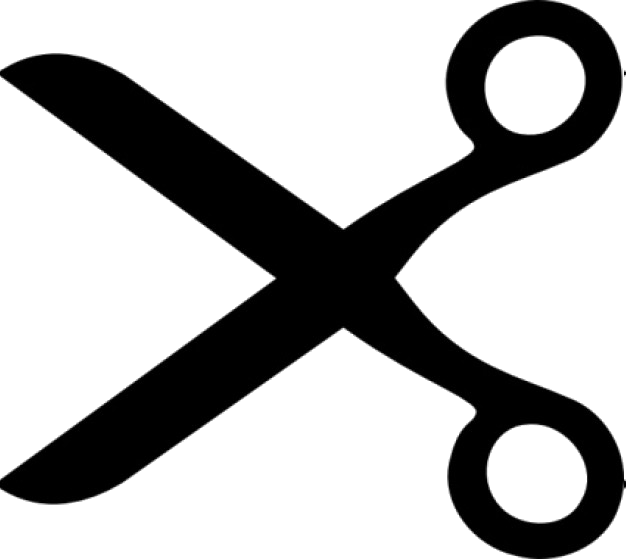
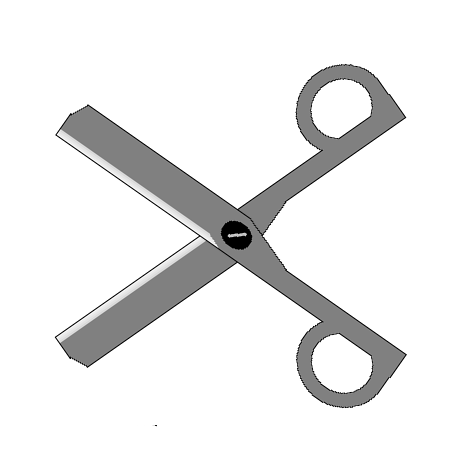
Q linda tijera

diff --git a/modelo/src/objeto/Yunque.cpp b/modelo/src/objeto/Yunque.cpp
@@ -16,7 +16,7 @@ Yunque::Yunque() : Objeto() {
 Yunque::Yunque(float x, float y, float w, float h) : Objeto(x,y){
 	this->ancho = w;
 	this->alto = h;
-	this->enganches.push_back(new Enganche(this,0,this->alto / 2));
+	this->enganches.push_back(new Enganche(this,0,this->alto * 0.45));
 }
 
 Yunque::~Yunque() {
@@ -26,7 +26,7 @@ Yunque::~Yunque() {
 Yunque::Yunque(const Yunque& figura):Objeto(figura) {
 	this->x = figura.getX();
 	this->y = figura.getY();
-	this->enganches.push_back(new Enganche(this,0,this->alto / 2));
+	this->enganches.push_back(new Enganche(this,0,this->alto * 0.45));
 //	alto = figura.alto;
 
 	this->ancho = (figura.getAncho());
@@ -49,7 +49,7 @@ void Yunque::crearFisica() {
 		b2BodyDef bodyDef;
 		bodyDef.type = b2_dynamicBody;
 		bodyDef.position.Set(centro.x, centro.y);
-		bodyDef.angle = this->getRotacion() * -3.14 / 180.0;
+		bodyDef.angle = this->getRotacion() * -b2_pi / 180.0;
 		b2Body* body = myWorld->CreateBody(&bodyDef);
 		b2FixtureDef bodyPelota;
 		bodyPelota.filter.categoryBits = CATEGORIA_FIGURAS;

diff --git a/vista/src/ConstantesVista.h b/vista/src/ConstantesVista.h
@@ -54,8 +54,8 @@ namespace CLIENTE {
 #define PATH_VISTA_POLEA "resource/polea.png"
 #define PATH_VISTA_CONTROL "resource/control.jpg"
 #define PATH_VISTA_BOMBA "resource/bomba2.png"
-#define PATH_VISTA_TIJERA1 "resource/tijera.png"
-#define PATH_VISTA_TIJERA2 "resource/tijera2.png"
+#define PATH_VISTA_TIJERA1 "resource/tijeraN2.png"
+#define PATH_VISTA_TIJERA2 "resource/tijeraN.png"
 #define PATH_VISTA_RUEDAS "resource/ruedaAuto.png"
 #define PATH_EDICION_UNION "resource/seleccionUnion.png"
 #define PATH_AGRANDAR_IMG "resource/agrandar.png"
@@ -119,7 +119,7 @@ namespace CLIENTE {
 #define ANCHO_BALANCIN 15.0
 #define ALTO_BALANCIN 1.6
 #define ANCHO_TIJERA 15.0
-#define ALTO_TIJERA 2.0
+#define ALTO_TIJERA 8.0
 
 
 #define ANCHO_CLAVO 5

diff --git a/modelo/src/objeto/Bomba.cpp b/modelo/src/objeto/Bomba.cpp
@@ -86,6 +86,8 @@ void Bomba::accionar() {
 	notify(DESACTIVADO);
 	myWorld->DestroyBody(this->getBody());
 	myWorld->DestroyBody(this->radioAccion);
+	radioAccion = NULL;
+	body =NULL;
 	viva = false;
 }
 
@@ -110,10 +112,10 @@ void Bomba::crearFisicaRadio(b2Vec2 centro) {
 	radioAccion->SetUserData(this);
 
 	//joint radio de accion con la tierra;
-	b2RevoluteJointDef rjd2;
-	rjd2.Initialize(this->body, radioAccion, centro);
-	rjd2.collideConnected = false;
-	myWorld->CreateJoint(&rjd2);
+//	b2RevoluteJointDef rjd2;
+//	rjd2.Initialize(this->body, radioAccion, centro);
+//	rjd2.collideConnected = false;
+//	myWorld->CreateJoint(&rjd2);
 }
 
 bool Bomba::validarContactoBomba(b2Body* verf, b2Body* b) {

diff --git a/modelo/src/objeto/Aspa.h b/modelo/src/objeto/Aspa.h
@@ -21,6 +21,7 @@ private:
 	b2Body * switchContacto;
 	void crearShapes();
 	void crearSwitch();
+	typedef Objeto super;
 public:
 	Aspa();
 	Aspa(float,float,float,float,double,int,Tijera*);
@@ -34,6 +35,7 @@ public:
 	void acept(VisitorFigura*);
 	void trabar();
 	b2RevoluteJoint* getJoint();
+	void limpiarReferenciasB2D();
 	void removerFisica();
 };
 #endif /* ASPA_H_ */

diff --git a/vista/src/vista/objeto/TijeraView.cpp b/vista/src/vista/objeto/TijeraView.cpp
@@ -19,8 +19,8 @@ void TijeraView::dibujarse(SDL_Renderer* r) {
 	dest.w = this->wp;
 	dest.x = this->xp;
 	dest.y = this->yp;
-	SDL_RenderCopyEx(r,this->getTexture(), NULL, &dest,angulo2,NULL,SDL_FLIP_NONE);
 	SDL_RenderCopyEx(r,this->t2, NULL, &dest,angulo1,NULL,SDL_FLIP_NONE);
+	SDL_RenderCopyEx(r,this->getTexture(), NULL, &dest,angulo2,NULL,SDL_FLIP_NONE);
 
 }
 

diff --git a/modelo/src/objeto/Tijera.cpp b/modelo/src/objeto/Tijera.cpp
@@ -229,3 +229,9 @@ float Tijera::getRotacionAspa1() {
 float Tijera::getRotacionAspa2() {
 	return aspa2->getRotacion();
 }
+
+void Tijera::limpiarReferenciasB2D() {
+	super::limpiarReferenciasB2D();
+	aspa1->limpiarReferenciasB2D();
+	aspa2->limpiarReferenciasB2D();
+}

diff --git a/modelo/src/objeto/Carrito.cpp b/modelo/src/objeto/Carrito.cpp
@@ -264,3 +264,8 @@ void Carrito::restoreBackUp() {
 void Carrito::recibirImpacto(b2Vec2 direccion) {
 	this->realizarImpacto(direccion);
 }
+
+void Carrito::limpiarReferenciasB2D() {
+	ruedaIzquierda= NULL;
+	ruedaDerecha = NULL;
+}

diff --git a/modelo/src/objeto/Polea.cpp b/modelo/src/objeto/Polea.cpp
@@ -136,7 +136,9 @@ void Polea::crearEnganches() {
 }
 
 void Polea::limpiarReferenciasB2D() {
+	super::limpiarReferenciasB2D();
 	joint = NULL;
+	radioAccion = NULL;
 }
 
 void Polea::desenganchado(Enganche* e) {

diff --git a/modelo/src/objeto/Aspa.cpp b/modelo/src/objeto/Aspa.cpp
@@ -206,3 +206,9 @@ void Aspa::removerFisica() {
 		switchContacto = NULL;
 	}
 }
+
+void Aspa::limpiarReferenciasB2D() {
+	super::limpiarReferenciasB2D();
+	jointCuerpoTierra=NULL;
+	switchContacto = NULL;
+}

diff --git a/modelo/src/objeto/Carrito.h b/modelo/src/objeto/Carrito.h
@@ -44,6 +44,7 @@ public:
 	void makeBackUp();
 	void restoreBackUp();
 	void recibirImpacto(b2Vec2 direccion);
+	void limpiarReferenciasB2D();
 };
 
 #endif /* CARRITO_H_ */

diff --git a/modelo/src/figura/Figura.cpp b/modelo/src/figura/Figura.cpp
@@ -274,7 +274,7 @@ bool Figura::isViva() {
 }
 
 void Figura::limpiarReferenciasB2D() {
-//	setBody(NULL);
+	setBody(NULL);
 }
 
 void Figura::accionesPostFisica() {

diff --git a/modelo/src/objeto/Tijera.h b/modelo/src/objeto/Tijera.h
@@ -42,6 +42,7 @@ public:
 	void accionar();
 	float getRotacionAspa1();
 	float getRotacionAspa2();
+	void limpiarReferenciasB2D();
 	b2Body * getBody();
 };
 
